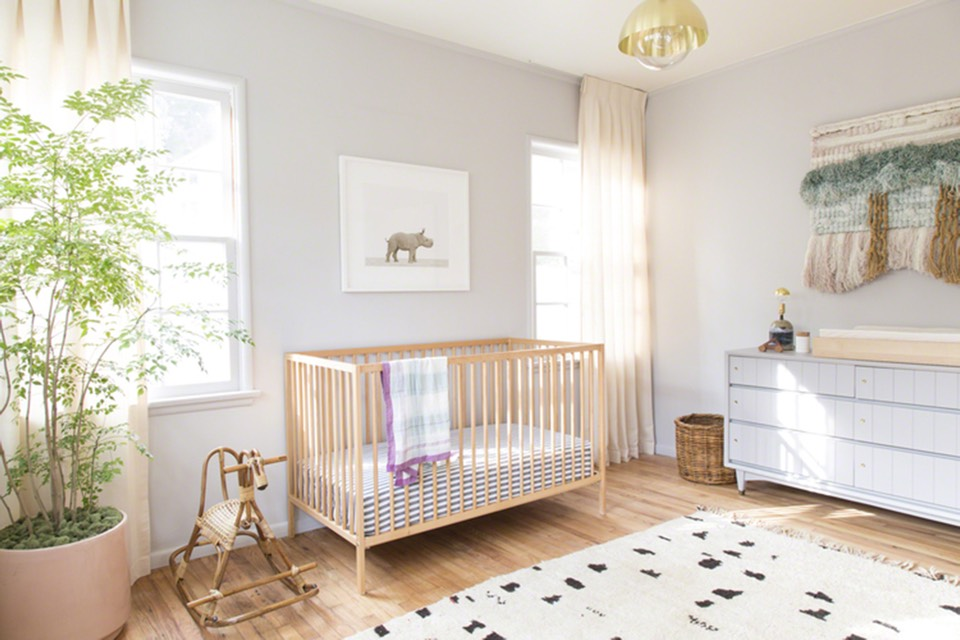
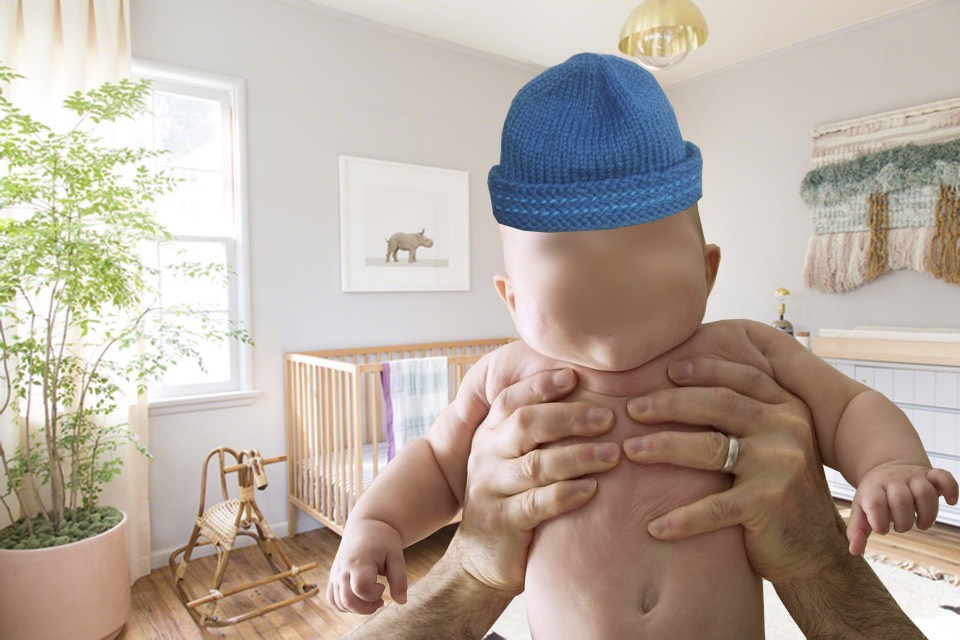
almost done prototype

diff --git a/src/js/config.js b/src/js/config.js
@@ -5,46 +5,60 @@ const data = {
   audioQuestion: 'music',
 
   copy: {
-    title: 'Fiiva and the Tuna are having a child.',
-    subtitle: 'Everybody knows the combination is going to be incredible. But just how incredible?',
-    defaultSelectText: 'select one...'
+    title: 'Fiiv and the Tuna are having a child.',
+    subtitle: 'Even though my mummy and daddy are awesome, they don’t always agree on everything. Mummy loves reality TV, daddy hates it. Daddy wears shorts in the winter, mummy is always cold. So who will I take after? Help me figure it out!',
+    closingRemark: 'Thanks for helping me figure out who I’ll be. Can’t wait to meet you all in July!<br><br>xo<br>Baby Jorts',
+    defaultSelectText: 'select one...',
+    footer: 'Made with <i class="fa fa-fw fa-heartbeat"></i> in Amsterdam, as was the baby.<br>The source is available on <a href="https://github.com/mtimofiiv/baby-madlib"><i class="fa fa-fw fa-github-alt"></i></a>'
   },
+
+  faces: [
+    'face-0.png',
+    'face-1.png',
+    'face-2.png',
+    'face-3.png',
+    'face-4.png'
+  ],
 
   madlib: {
 
     sports: {
-      label: 'Favorite sports team',
+      label: 'Of course I love football, so I’ll probably be a fan of ',
 
       answers: {
         broncos: {
-          title: 'Denver Broncos',
-          media: 'broncos.png'
+          title: 'the defending SuperBowl Champions',
+          media: 'broncos.png',
+          pick: 'tina'
         },
         patriots: {
-          title: 'New England Patriots',
-          media: 'patriots.png'
+          title: 'the team with the most SuperBowl wins in the last 15 years (4!)',
+          media: 'patriots.png',
+          pick: 'mike'
         }
       },
 
       style: {
-        left: 200,
-        top: 200,
-        width: 100,
-        height: 100
+        left: 506,
+        top: 192,
+        width: 69,
+        height: 39
       }
     },
 
     philosophy: {
-      label: 'Most important philosophy',
+      label: 'And mum and dad both believe in equality of all people, but will my soapbox be all about ',
 
       answers: {
         marxism: {
-          title: 'Marxism',
-          media: 'che.png'
+          title: 'economic and social justice',
+          media: 'che.png',
+          pick: 'mike'
         },
         feminism: {
-          title: 'Feminism',
-          media: 'rosie.png'
+          title: 'gender equity and opportunity',
+          media: 'rosie.png',
+          pick: 'tina'
         }
       },
 
@@ -57,26 +71,46 @@ const data = {
     },
 
     music: {
-      label: 'Favorite music',
+      label: 'My parents sure do like some weird music, but I think I’ll like to ',
 
       answers: {
         bowie: {
-          title: 'David Bowie',
-          media: 'N4d7Wp9kKjA'
+          title: 'listen to music that says something about the world',
+          media: 'N4d7Wp9kKjA',
+          pick: 'mike'
         },
         miley: {
-          title: 'Miley Cyrus',
-          media: 'M11SvDtPBhA'
+          title: 'have a dance party and sing along on Friday nights!',
+          media: 'M11SvDtPBhA',
+          pick: 'tina'
+        }
+      }
+
+    },
+
+    food: {
+      label: 'And mmmmm, food, we know they both like lots of that. I think I’ll prefer ',
+
+      answers: {
+        marxism: {
+          title: 'anything that comes from the dead carcass of an animal',
+          media: 'meat.png',
+          pick: 'mike'
+        },
+        feminism: {
+          title: 'whatever makes my cheeks pucker - sour sour sour!',
+          media: 'lemon.png',
+          pick: 'tina'
         }
       },
 
       style: {
-        left: 800,
-        top: 200,
-        width: 100,
-        height: 100
+        left: 353,
+        top: 343,
+        width: 153,
+        height: 297
       }
-    }
+    },
 
   }
 

diff --git a/src/js/Components/App.jsx b/src/js/Components/App.jsx
@@ -4,6 +4,7 @@ import Hero from './Hero.jsx';
 import Form from './Form.jsx';
 import Canvas from './Canvas.jsx';
 import Audio from './Audio.jsx';
+import Footer from './Footer.jsx';
 
 class App extends React.Component {
 
@@ -13,14 +14,28 @@ class App extends React.Component {
     const store = {};
     for (let question in this.props.madlib) store[question] = null;
 
-    this.state = { store };
+    let weight = 2;
+
+    this.state = { store, weight };
   }
 
   changeChoice(key, value) {
     const store = this.state.store;
     store[key] = value;
 
-    this.setState({ store });
+    let weight = this.state.weight;
+
+    if (this.props.madlib[key].answers[value].pick === 'mike') {
+      weight++;
+    } else if (this.props.madlib[key].answers[value].pick === 'tina') {
+      weight--;
+    }
+
+    this.setState({ store, weight });
+  }
+
+  face() {
+    return this.props.faces[this.state.weight];
   }
 
   render() {
@@ -52,9 +67,12 @@ class App extends React.Component {
             madlib={this.props.madlib}
             store={this.state.store}
             audioQuestion={this.props.audioQuestion}
+            face={this.face()}
             />
 
         </div>
+
+        <Footer caption={this.props.copy.footer} />
       </div>
     );
   }

diff --git a/src/js/Components/Footer.jsx b/src/js/Components/Footer.jsx
@@ -1,0 +1,31 @@
+import React from 'react';
+
+class Footer extends React.Component {
+
+  constructor(props) {
+    super(props);
+  }
+
+  caption() {
+    return { __html: this.props.caption };
+  }
+
+  render() {
+    return (
+      <footer className="footer">
+        <div className="container">
+          <div className="content">
+            <p className="is-text-centered" dangerouslySetInnerHTML={this.caption()} />
+          </div>
+        </div>
+      </footer>
+    );
+  }
+
+}
+
+Footer.propTypes = {
+  caption: React.PropTypes.string.isRequired
+};
+
+export default Footer;

diff --git a/src/sass/style.scss b/src/sass/style.scss
@@ -1,10 +1,16 @@
 @import './node_modules/bulma/bulma/utilities/utilities';
 @import './node_modules/bulma/bulma/config/variables';
+
+// variables here
+
 @import './node_modules/bulma/bulma/config/generated-variables';
 @import './node_modules/bulma/bulma/base/base';
 @import './node_modules/bulma/bulma/elements/elements';
 @import './node_modules/bulma/bulma/components/components';
 @import './node_modules/bulma/bulma/layout/layout';
 
-body {
+#audio-container {
+  padding: 0;
+  margin: 0;
+  height: 0;
 }

diff --git a/src/index.html b/src/index.html
@@ -6,6 +6,7 @@
     <meta name="viewport" content="width=device-width, initial-scale=1">
     <title>So we have some news...</title>
 
+    <link rel="stylesheet" href="https://maxcdn.bootstrapcdn.com/font-awesome/4.5.0/css/font-awesome.min.css">
     <link rel="stylesheet" href="assets/style.css">
 
     <script type="text/javascript">

diff --git a/src/js/Components/Audio.jsx b/src/js/Components/Audio.jsx
@@ -33,7 +33,7 @@ class Audio extends React.Component {
 
   render() {
     return (
-      <div>
+      <div id="audio-container">
         {this.element()}
       </div>
     );

diff --git a/src/js/Components/Canvas.jsx b/src/js/Components/Canvas.jsx
@@ -10,6 +10,10 @@ const styles = {
     left: 0,
     width: 960,
     height: 640
+  },
+
+  faceImage: {
+
   }
 
 };
